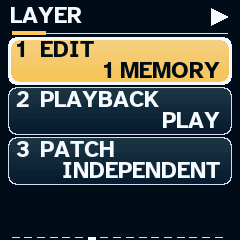
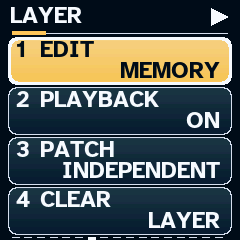
Record the 3.1 RC1 native build (clearer controls) in CHANGES; refresh screenshots
Claude-Session: https://claude.ai/code/session_01VkkgKgmkLybN4UKDSKPBAj

Changed region(s): [[0.0292, 0.7583, 0.9917, 0.9917], [0.6708, 0.4667, 0.9333, 0.5542], [0.4375, 0.2625, 0.4667, 0.3208]]

diff --git a/docs/CHANGES_3.1.md b/docs/CHANGES_3.1.md
@@ -163,7 +163,7 @@ refused.
   489 added.
 * **Flash freed:** removing old-project support freed about 68 KB of app image and
   23,280 B of RAM. The 3.1 additions (the 28 px font and the Anchor and Zoom
-  changes) use about 8 KB of that, so the net saving is 59,948 B. See
+  changes) use about 8 KB of that, so the net saving is 59,784 B. See
   [Build and test status](#build-and-test-status).
 
 ### Tests removed, and why
@@ -238,23 +238,23 @@ measured with the same harness.
 
 ## Build and test status
 
-Native build of source commit `bea7d690cd23` by the
-[FM-1 native build workflow](https://github.com/spinnicholas/lvm-wanderer-fm1/actions/runs/42402234724),
+Native build of source commit `f22f110dcc07` by the
+[FM-1 native build workflow](https://github.com/spinnicholas/lvm-wanderer-fm1/actions/runs/42403454757),
 with the pinned JieLi toolchain and AC79 SDK.
 
 * **Package:** `dist/LVM-Wanderer-3.1-RC1-FM1.fwsc`, 612,196 B, identity `FM-1_929`.
   The build reported "FLASHABLE BUILD VALIDATED".
[2 lines of base64/hex data omitted]
 
 | | Limit | 3.0 RC3 | 3.1 RC1 | Change |
 | --- | --- | --- | --- | --- |
-| App image | 581,564 B | 571,888 B | **511,940 B** | −59,948 B (−10.5%) |
+| App image | 581,564 B | 571,888 B | **512,104 B** | −59,784 B (−10.5%) |
 | RAM (.data + .bss) | 98,304 B | 94,752 B | **71,472 B** | −23,280 B |
 | Audio pool | 344,064 B | 342,536 B | 342,536 B | 0 |
 | Loader | — | 10,456 B | 10,456 B | 0 |
 
 The `.fwsc` container is a fixed 612,196 B for both versions. The savings are inside
-it: 69,624 B of headroom in the app image, up from 9,676 B.
+it: 69,460 B of headroom in the app image, up from 9,676 B.
 
 **Host tests** run in CI before the compile and passed:
 
